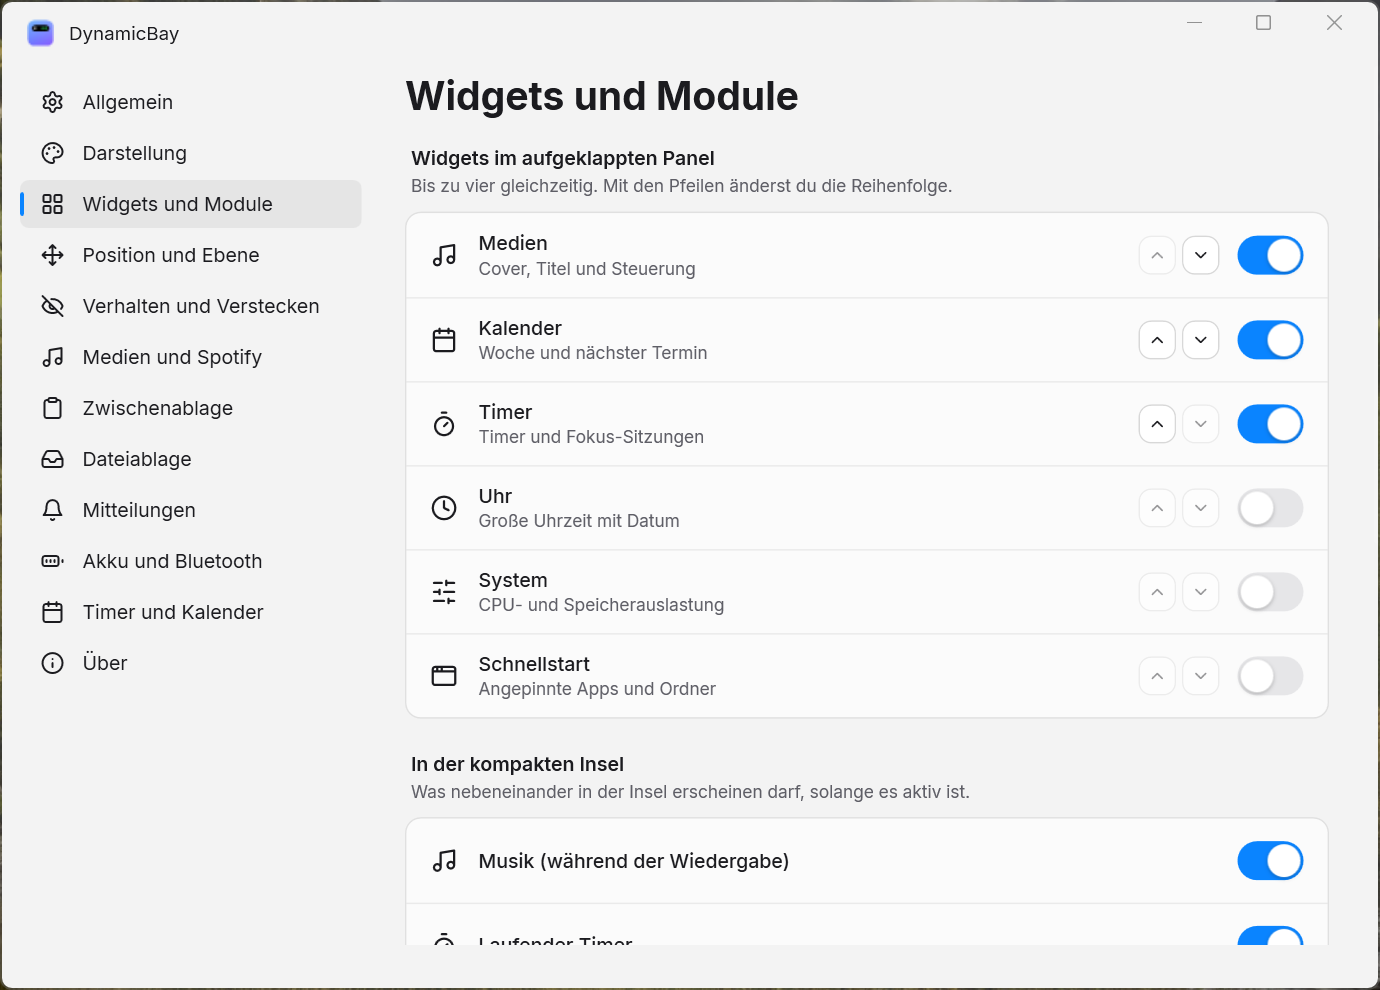
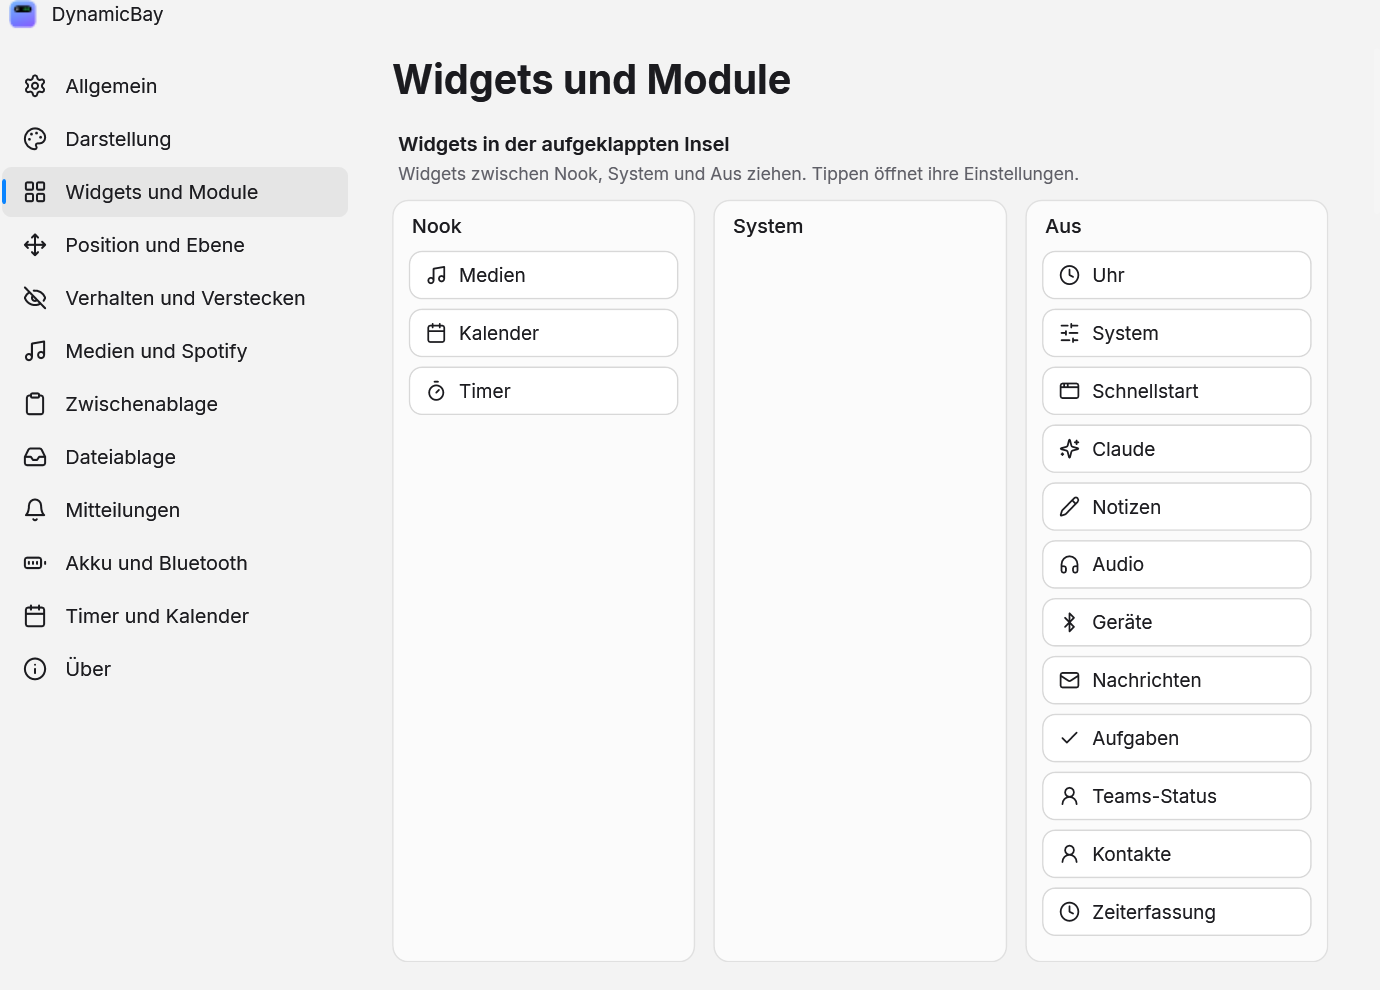
README with fresh images (audio/System page, work widgets, Spotify up next, notch); widths: minimums honoured, the rest shared by weight, tighter minimums so the default three widgets fit; long event names trim
Claude-Session: https://claude.ai/code/session_012gKCEva5g5Z6uWC5ehUebk

diff --git a/src/DynamicBay/Island/Views/ExpandedView.xaml.cs b/src/DynamicBay/Island/Views/ExpandedView.xaml.cs
@@ -189,7 +189,7 @@ public partial class ExpandedView : UserControl
 
     private double MinWidthOf(string id) => ScriptOf(id) is { } sc ? (sc.Size == Core.ScriptSize.Large ? 330 : 170) : id switch
     {
-        "media" => 372, "messenger" or "claude" or "todo" => 230, "teams" => 52, "timetrack" => 170, "contacts" => 230, "devices" => 220, "audio" => 190, "notes" => 190, "shortcuts" => 170, "calendar" => 160, _ => 150,
+        "media" => 360, "messenger" or "claude" or "todo" => 230, "teams" => 52, "timetrack" => 170, "contacts" => 230, "devices" => 220, "audio" => 190, "notes" => 190, "shortcuts" => 170, "calendar" => 134, "timer" => 120, _ => 150,
     };
 
     // ---- script widgets ----
@@ -256,14 +256,40 @@ public partial class ExpandedView : UserControl
         // Wide layout: fixed pixel columns (share of the visible width by weight, at least the minimum).
         if (!_vertical && _columns.Count == HomeGrid.ColumnDefinitions.Count && _columns.Count > 0)
         {
-            double avail = Math.Max(0, HomeScroll.ActualWidth - 2 * edge), total = _columns.Sum(c => c.weight);
+            double avail = Math.Max(0, HomeScroll.ActualWidth - 2 * edge);
+            var widths = ColumnWidths(_columns, avail);
             for (int i = 0; i < _columns.Count; i++)
             {
-                var (weight, min) = _columns[i];
                 HomeGrid.ColumnDefinitions[i].MinWidth = 0;
-                HomeGrid.ColumnDefinitions[i].Width = new GridLength(Math.Max(min, avail * weight / total));
+                HomeGrid.ColumnDefinitions[i].Width = new GridLength(widths[i]);
             }
         }
+    }
+
+    /// <summary>
+    /// Shares the width by weight, but every column gets at least its minimum: columns that would be too narrow are
+    /// fixed at their minimum and the rest share what is left (repeated until it settles). If even the minimums do not
+    /// fit, the page scrolls.
+    /// </summary>
+    public static double[] ColumnWidths(IReadOnlyList<(double weight, double min)> cols, double avail)
+    {
+        var w = new double[cols.Count];
+        var fixedAt = new bool[cols.Count];
+        for (int round = 0; round < cols.Count; round++)
+        {
+            double rest = avail - Enumerable.Range(0, cols.Count).Where(i => fixedAt[i]).Sum(i => cols[i].min);
+            double weights = Enumerable.Range(0, cols.Count).Where(i => !fixedAt[i]).Sum(i => cols[i].weight);
+            bool changed = false;
+            for (int i = 0; i < cols.Count; i++)
+            {
+                if (fixedAt[i]) { w[i] = cols[i].min; continue; }
+                w[i] = weights > 0 ? Math.Max(0, rest) * cols[i].weight / weights : cols[i].min;
+                if (w[i] < cols[i].min) { fixedAt[i] = true; changed = true; }
+            }
+            if (!changed) break;
+        }
+        for (int i = 0; i < cols.Count; i++) w[i] = Math.Max(w[i], cols[i].min);
+        return w;
     }
 
     /// <summary>Weight and minimum width (including the 8 px gap) of each column in the wide layout.</summary>

diff --git a/src/DynamicBay/Services/CalendarService.cs b/src/DynamicBay/Services/CalendarService.cs
@@ -331,9 +331,9 @@ public sealed partial class CalendarService : ObservableObject
         var t = DateTime.Today;
         _all = new()
         {
-            new CalendarEvent { Title = "Design Review", Start = DateTime.Now.AddMinutes(8), End = DateTime.Now.AddMinutes(38) },
+            new CalendarEvent { Title = "Design Review mit dem gesamten Vertriebsteam", Start = DateTime.Now.AddMinutes(8), End = DateTime.Now.AddMinutes(38) },
             new CalendarEvent { Title = "Lunch mit Lena", Start = t.AddHours(13), End = t.AddHours(14), Color = "#0A84FF" },
-            new CalendarEvent { Title = "Geburtstag Mia", Start = t, End = t.AddDays(1), AllDay = true, Color = "#BF5AF2" },
+            new CalendarEvent { Title = "Geburtstag Mia und Grillabend im Garten", Start = t, End = t.AddDays(1), AllDay = true, Color = "#BF5AF2" },
             new CalendarEvent { Title = "Zahnarzt", Start = t.AddDays(1).AddHours(9), End = t.AddDays(1).AddHours(10), Color = "#30D158" },
         };
         IsConfigured = true;

diff --git a/tests/DynamicBay.Tests/CoreTests.cs b/tests/DynamicBay.Tests/CoreTests.cs
@@ -456,6 +456,26 @@ public class TextRecognitionTests
     }
 }
 
+public class HomeLayoutTests
+{
+    [Fact]
+    public void Columns_keep_their_minimum_and_the_rest_share_the_width()
+    {
+        // media (2.15, min 380), calendar (1, 168), timer (1, 150) in 700 px: media gets its minimum, the others share the rest
+        var w = DynamicBay.Island.Views.ExpandedView.ColumnWidths(new[] { (2.15, 380.0), (1.0, 168.0), (1.0, 150.0) }, 700);
+        Assert.Equal(380, w[0], 1);
+        Assert.Equal(700, w.Sum(), 1);
+        Assert.True(w[1] >= 168 && w[2] >= 150);
+    }
+
+    [Fact]
+    public void Too_many_columns_scroll_instead_of_shrinking_below_the_minimum()
+    {
+        var w = DynamicBay.Island.Views.ExpandedView.ColumnWidths(new[] { (1.0, 300.0), (1.0, 300.0), (1.0, 300.0) }, 700);
+        Assert.All(w, x => Assert.True(x >= 300));
+    }
+}
+
 public class DownloadsTests
 {
     [Theory]

diff --git a/README.md b/README.md
@@ -25,6 +25,10 @@ Musik, Zwischenablage, Dateiablage, Mitteilungen, Kalender, Timer, Claude und me
 | ![Kompakt](docs/images/top-2-compact.png) | **Live Activities nebeneinander:** Musik, laufender Timer, nächster Termin, Akku schwach, Uhrzeit oder ein arbeitender Claude-Agent – alles in einer Insel. |
 | ![Widgets](docs/images/top-8-widgets.png) | **Komplett anpassbar:** Widgets wählen und sortieren (Medien, Uhr, Kalender, Timer, System, Schnellstart, Nachrichten, Claude). Schnellstart-Apps (auch Store-Apps wie WhatsApp oder Discord) erscheinen als einheitliche, dunkle Kacheln. |
 | ![Eigene Widgets](docs/images/top-12-script-widgets.png) | **Eigene Widgets per Skript:** Widgets selbst in JavaScript schreiben – mit derselben Schnittstelle wie Scriptable auf dem iPhone, z. B. für eigene Daten wie Strompreise, Smart Home oder Server-Status. Wahlweise als große oder kleine Karte oder als Mini-Zeile in der Insel. Skripte laufen in einer geschützten Umgebung ohne Zugriff auf Windows oder deine Dateien. Anleitung: [docs/SCRIPTS.md](docs/SCRIPTS.md). |
+| ![System](docs/images/top-system-tab.png) | **Zwei Seiten:** Nook und System. Audio-Widget für Ausgabe, Mikrofon und AirPods; im Call hörst du über Kopfhörer und sprichst ins PC-Mikrofon. |
+| ![Arbeit](docs/images/top-work.png) | **Für die Arbeit:** Zeiterfassung mit eigenem Fenster, Notizen, Microsoft To Do, Teams-Status und Kontakte. |
+| ![Spotify](docs/images/top-upnext.png) | **Spotify:** Warteschlange, Playlists und Geräte direkt in der Insel. |
+| ![Notch](docs/images/notch-home.png) | **Notch-Design:** wächst aus dem Bildschirmrand wie beim MacBook (Einstellungen → Darstellung → Form). |
 | ![Hochformat](docs/images/left-4-home.png) | **Überall platzierbar:** Insel mit der Maus verschieben – sie rastet magnetisch ein und passt Form und Aufklapp-Richtung an (oben, unten, Ecken, senkrecht an den Seiten). Auf einen anderen Bildschirm ziehen oder auf allen Bildschirmen spiegeln. |
 
 **Außerdem:** Spotify, Apple Music und alle anderen Player ohne Anmeldung (optional Spotify-Login für Lieblingssongs, Warteschlange, Playlists und Gerätewahl), Lautstärkeregler nur für die Musik · Audio-Widget für Ausgabe, Mikrofon und AirPods · Notizen · Zeiterfassung mit eigenem Fenster · Downloads in der Insel · zweite Seite „System“ · Notch-Design wie beim MacBook · Kalender aus iCloud, Google und Outlook · Timer und Pomodoro · Akku- und Bluetooth-Anzeigen · Claude-Code-Sitzungen mit Live-Status und Remote Control · schwebend, über allem (auch im Vollbild) oder nur auf dem Desktop · Verstecken per Tastenkürzel, Auto-Hide, im Vollbild · Deutsch und Englisch.
@@ -72,6 +76,6 @@ Lizenz: [MIT](LICENSE)
 <a id="english"></a>
 ## English
 
-**DynamicBay** is a Dynamic Island for Windows inspired by NotchNook: media controls (Spotify, Apple Music, any player), clipboard history with Snipping Tool screenshots, a file shelf, mirrored notifications from other apps, calendars (iCloud, Google, Outlook), timers, battery and Bluetooth peeks, a launcher, Claude Code session status, own widgets written in JavaScript (Scriptable-compatible, sandboxed) – all inside a black island that morphs with spring physics. It can be dragged anywhere, docks to edges and corners (vertical on the sides), works on multiple displays and is fully customizable.
+**DynamicBay** is a Dynamic Island for Windows inspired by NotchNook: media controls (Spotify, Apple Music, any player), clipboard history with Snipping Tool screenshots, a file shelf, mirrored notifications from other apps, calendars (iCloud, Google, Outlook), timers, battery and Bluetooth peeks, an audio widget for outputs, microphone and AirPods, notes, time tracking, a second "System" page, a MacBook-style notch look, a launcher, Claude Code session status, own widgets written in JavaScript (Scriptable-compatible, sandboxed) – all inside a black island that morphs with spring physics. It can be dragged anywhere, docks to edges and corners (vertical on the sides), works on multiple displays and is fully customizable.
 
 Download the installer from [Releases](https://github.com/SuperSparrow-sys/dynamic-island-win/releases/latest). Everything needed is included. Windows 10 2004+ / Windows 11, x64. See [docs/](docs) for architecture, integrations and troubleshooting.
